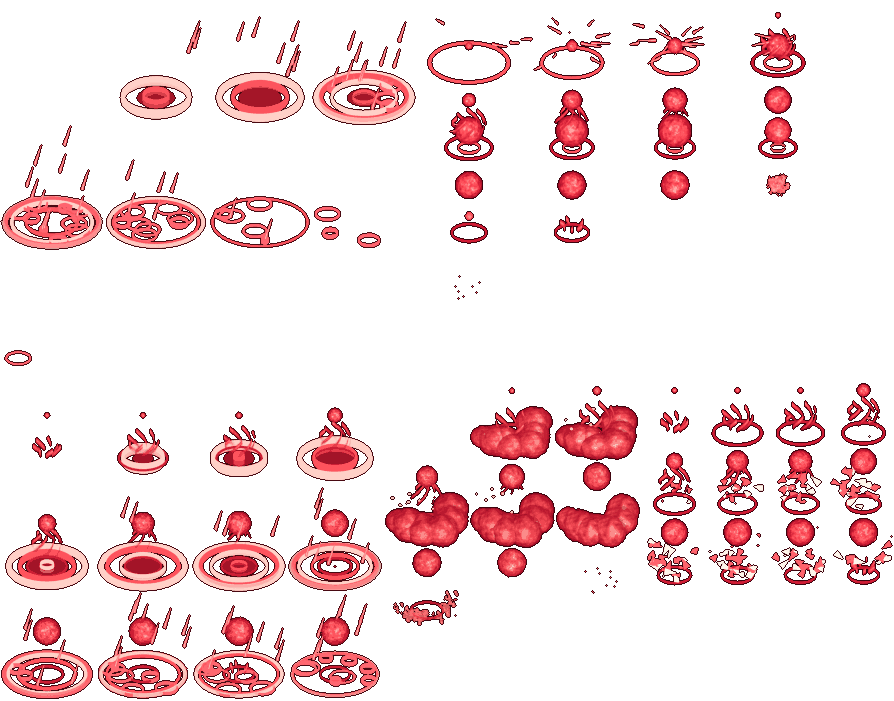
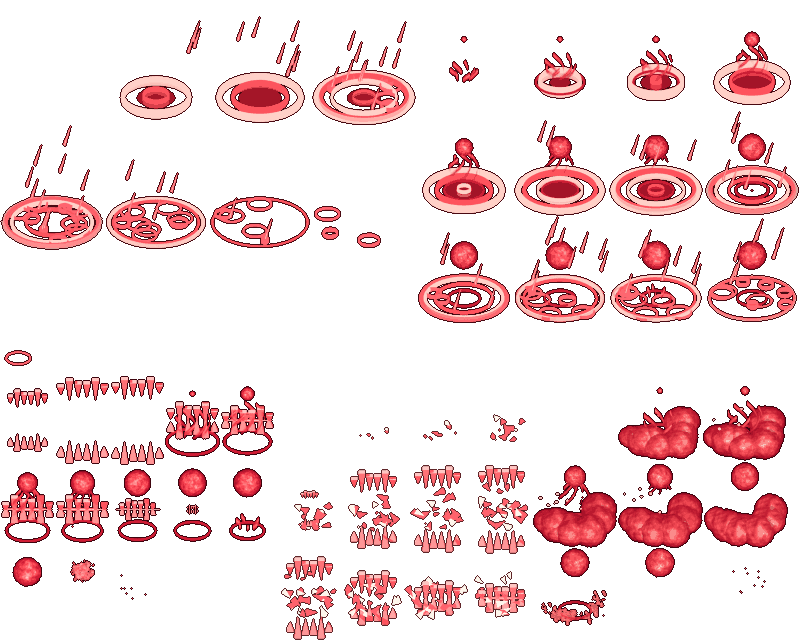
ULT-AUDIT, the look-alike pairs: harpoons for the Harpooner, fangs for the Vampire Lord, fire on each ally for the Samurai Commander
Claude-Session: https://claude.ai/code/session_01RRJtWnKv3aqtC5Z8HqXpVz

diff --git a/src/render/blenderFxData.ts b/src/render/blenderFxData.ts
@@ -7,7 +7,7 @@ import type { BfxClip } from './blenderFxRules';
 export const BFX_DENSITY = 45;
 export const BFX_GLOW_SHRINK = 4;
 /** The hard pixel atlases' sizes, then the soft glow atlases' (`px-<n>.webp`, `soft-<n>.webp`). */
-export const BFX_PX: readonly (readonly [number, number])[] = [[2041, 2045], [2030, 750], [1208, 1240], [1076, 1140], [938, 563], [945, 886], [217, 241], [946, 993], [1136, 1212], [1016, 691], [994, 778], [316, 280], [1016, 1019], [837, 717], [913, 1022], [923, 937], [1005, 700], [1364, 1324], [1176, 1280], [873, 563], [1008, 1200], [1156, 1128], [979, 716], [994, 856], [265, 187], [987, 641], [1023, 821], [919, 810], [874, 978], [277, 220], [754, 896], [991, 893], [983, 907], [919, 509], [817, 817], [918, 856], [980, 813], [802, 799], [834, 1009], [991, 950], [689, 569], [1065, 954], [881, 584], [900, 898], [286, 217], [1023, 809], [605, 505], [987, 993], [286, 196], [977, 957], [781, 906], [451, 430], [781, 941], [894, 701], [1010, 846], [902, 993], [1076, 1048], [980, 738], [917, 874], [451, 496], [1328, 1540], [974, 954], [1001, 758], [982, 895], [253, 220], [982, 936], [992, 776], [1184, 1040], [891, 926], [829, 809], [945, 680], [1020, 1011], [813, 223], [1018, 1022], [427, 136], [1024, 1018], [650, 226], [1016, 1015], [373, 145], [1019, 991], [443, 148], [1013, 1020], [358, 213], [1015, 1018], [357, 124], [1003, 1006], [960, 208], [1021, 1023], [424, 145], [1001, 1008], [650, 226], [91, 79]];
+export const BFX_PX: readonly (readonly [number, number])[] = [[2041, 2045], [2030, 750], [1208, 1240], [1076, 1140], [938, 563], [945, 886], [217, 241], [946, 993], [1136, 1212], [1016, 691], [994, 778], [316, 280], [1016, 1019], [837, 717], [913, 1022], [923, 937], [1005, 700], [1364, 1324], [1176, 1280], [873, 563], [1008, 1200], [1156, 1128], [979, 716], [994, 856], [265, 187], [987, 641], [1023, 821], [919, 810], [874, 978], [277, 220], [754, 896], [991, 893], [983, 907], [919, 509], [817, 817], [918, 856], [980, 813], [802, 799], [834, 1009], [991, 950], [689, 569], [1065, 954], [881, 584], [900, 898], [286, 217], [1023, 809], [605, 505], [987, 993], [286, 196], [977, 957], [781, 906], [451, 430], [781, 941], [802, 644], [1010, 846], [902, 993], [1076, 1048], [980, 738], [917, 874], [451, 496], [1328, 1540], [974, 954], [1001, 758], [982, 895], [253, 220], [982, 936], [992, 776], [1184, 1040], [891, 926], [829, 809], [903, 845], [1020, 1011], [813, 223], [1018, 1022], [427, 136], [1024, 1018], [650, 226], [1016, 1015], [373, 145], [1019, 991], [443, 148], [1013, 1020], [358, 213], [1015, 1018], [357, 124], [1003, 1006], [960, 208], [1021, 1023], [424, 145], [1001, 1008], [650, 226], [91, 79]];
 export const BFX_SOFT: readonly (readonly [number, number])[] = [[2048, 1291]];
 /** The pixel atlases every fight may need (the spells, the ground loops): loaded up front. The rest are loaded when a fight needs them. */
 export const BFX_CORE: readonly number[] = [0, 1];
@@ -318,12 +318,12 @@ export const BFX_CLIPS: Readonly<Record<string, BfxClip>> = {
   'ult-gunslinger-aftermath': {"a": 24, "x": 0, "y": 0, "w": 88, "h": 62, "n": 9, "cols": 3, "ax": 46.5, "ay": 58.1, "ms": 1800, "loop": false, "hold": 3, "layer": "over", "el": "fire", "cuts": [[0, 7], [1, 8]], "sc": ["smoke", "sparks"]},
   'ult-gunslinger-strike': {"a": 23, "x": 0, "y": 565, "w": 78, "h": 58, "n": 13, "cols": 3, "ax": 39.0, "ay": 36.8, "ms": 1300, "loop": false, "hold": 6, "layer": "over", "el": "fire", "cuts": [[0, 8], [3, 12]], "sc": ["sparks", "ring"], "at": "each"},
   'ult-gunslinger-windup': {"a": 23, "x": 235, "y": 565, "w": 78, "h": 64, "n": 12, "cols": 3, "ax": 36.5, "ay": 56.6, "ms": 2000, "loop": false, "hold": 4, "layer": "over", "el": "fire", "cuts": [[0, 11], [3, 11]], "sc": ["sparks", "smoke"]},
-  'ult-harpooner-aftermath': {"a": 70, "x": 301, "y": 373, "w": 89, "h": 77, "n": 9, "cols": 3, "ax": 45.0, "ay": 53.4, "ms": 1600, "loop": false, "hold": 4, "layer": "over", "el": "ice", "cuts": [[0, 7], [1, 8]], "sc": ["spikes", "chains"]},
-  'ult-harpooner-strike': {"a": 70, "x": 584, "y": 0, "w": 90, "h": 77, "n": 13, "cols": 4, "ax": 45.5, "ay": 54.0, "ms": 1300, "loop": false, "hold": 6, "layer": "over", "el": "ice", "cuts": [[0, 8], [3, 12]], "sc": ["chains", "spikes"], "at": "each"},
-  'ult-harpooner-windup': {"a": 70, "x": 0, "y": 0, "w": 95, "h": 93, "n": 12, "cols": 3, "ax": 47.5, "ay": 68.6, "ms": 1700, "loop": false, "hold": 10, "layer": "over", "el": "ice", "cuts": [[0, 11], [3, 11]], "sc": ["chains", "geyser"]},
+  'ult-harpooner-aftermath': {"a": 70, "x": 599, "y": 472, "w": 101, "h": 101, "n": 9, "cols": 3, "ax": 50.5, "ay": 75.6, "ms": 1600, "loop": false, "hold": 5, "layer": "over", "el": "ice", "cuts": [[0, 7], [1, 8]], "sc": ["spikes", "geyser"]},
+  'ult-harpooner-strike': {"a": 70, "x": 0, "y": 0, "w": 90, "h": 157, "n": 13, "cols": 5, "ax": 45.5, "ay": 134.6, "ms": 1300, "loop": false, "hold": 6, "layer": "over", "el": "ice", "cuts": [[0, 8], [3, 12]], "sc": ["strike", "spikes"], "at": "each"},
+  'ult-harpooner-windup': {"a": 70, "x": 451, "y": 0, "w": 97, "h": 94, "n": 12, "cols": 3, "ax": 48.5, "ay": 69.6, "ms": 1700, "loop": false, "hold": 11, "layer": "over", "el": "ice", "cuts": [[0, 11], [3, 11]], "sc": ["spikes", "geyser"]},
   'ult-hemomancer-aftermath': {"a": 53, "x": 0, "y": 0, "w": 104, "h": 125, "n": 9, "cols": 4, "ax": 52.0, "ay": 98.3, "ms": 1700, "loop": false, "hold": 3, "layer": "over", "el": "blood", "cuts": [[0, 7], [1, 8]], "sc": ["ring", "rain"]},
   'ult-hemomancer-strike': {"a": 52, "x": 0, "y": 0, "w": 195, "h": 235, "n": 13, "cols": 4, "ax": 90.5, "ay": 183.8, "ms": 1300, "loop": false, "hold": 5, "layer": "over", "el": "blood", "cuts": [[0, 8], [3, 12]], "sc": ["siphon", "rain"]},
-  'ult-hemomancer-windup': {"a": 53, "x": 0, "y": 376, "w": 96, "h": 108, "n": 12, "cols": 4, "ax": 47.0, "ay": 83.1, "ms": 1900, "loop": false, "hold": 6, "layer": "over", "el": "blood", "cuts": [[0, 11], [0, 11], [4, 11]], "sc": ["siphon", "ring", "rain"]},
+  'ult-hemomancer-windup': {"a": 53, "x": 417, "y": 0, "w": 96, "h": 108, "n": 12, "cols": 4, "ax": 47.0, "ay": 83.1, "ms": 1900, "loop": false, "hold": 6, "layer": "over", "el": "blood", "cuts": [[0, 11], [0, 11], [4, 11]], "sc": ["siphon", "ring", "rain"]},
   'ult-illusionist-aftermath': {"a": 38, "x": 0, "y": 768, "w": 95, "h": 80, "n": 9, "cols": 3, "ax": 47.5, "ay": 56.5, "ms": 2100, "loop": false, "hold": 3, "layer": "over", "el": "arcane", "cuts": [[0, 7], [1, 8]], "sc": ["sigil", "veil"]},
   'ult-illusionist-strike': {"a": 38, "x": 313, "y": 473, "w": 61, "h": 73, "n": 13, "cols": 4, "ax": 30.5, "ay": 62.3, "ms": 1300, "loop": false, "hold": 4, "layer": "over", "el": "arcane", "cuts": [[0, 8], [3, 12]], "sc": ["veil", "portal"], "at": "each"},
   'ult-illusionist-windup': {"a": 38, "x": 558, "y": 473, "w": 78, "h": 63, "n": 12, "cols": 3, "ax": 38.5, "ay": 52.6, "ms": 2200, "loop": false, "hold": 10, "layer": "over", "el": "arcane", "cuts": [[0, 11], [4, 11]], "sc": ["veil", "sparks"]},
@@ -409,14 +409,14 @@ export const BFX_CLIPS: Readonly<Record<string, BfxClip>> = {
   'ult-samurai-strike': {"a": 13, "x": 0, "y": 0, "w": 142, "h": 121, "n": 13, "cols": 4, "ax": 53.5, "ay": 102.2, "ms": 1300, "loop": false, "hold": 5, "layer": "over", "el": "holy", "cuts": [[0, 8], [3, 12]], "sc": ["arc", "sparks"], "at": "line", "g": {"a": 0, "x": 1763, "y": 0, "w": 65, "h": 49, "cols": 3, "ax": 32.38, "ay": 30.3}},
   'ult-samurai-windup': {"a": 12, "x": 733, "y": 0, "w": 94, "h": 75, "n": 12, "cols": 3, "ax": 47.0, "ay": 50.8, "ms": 1600, "loop": false, "hold": 8, "layer": "over", "el": "holy", "cuts": [[0, 11], [4, 11]], "sc": ["ring", "flare"], "g": {"a": 0, "x": 1161, "y": 1004, "w": 29, "h": 35, "cols": 4, "ax": 14.25, "ay": 26.2}},
   'ult-samuraiCommander-aftermath': {"a": 45, "x": 285, "y": 529, "w": 110, "h": 91, "n": 9, "cols": 3, "ax": 55.0, "ay": 63.3, "ms": 1700, "loop": false, "hold": 5, "layer": "over", "el": "fire", "cuts": [[0, 7], [1, 8]], "sc": ["ring", "flare"]},
-  'ult-samuraiCommander-strike': {"a": 46, "x": 0, "y": 0, "w": 151, "h": 126, "n": 13, "cols": 4, "ax": 75.5, "ay": 88.4, "ms": 1300, "loop": false, "hold": 7, "layer": "over", "el": "fire", "cuts": [[0, 8], [3, 12]], "sc": ["banner", "flare"], "at": "friends"},
+  'ult-samuraiCommander-strike': {"a": 46, "x": 0, "y": 0, "w": 151, "h": 126, "n": 13, "cols": 4, "ax": 75.5, "ay": 88.5, "ms": 1300, "loop": false, "hold": 4, "layer": "over", "el": "fire", "cuts": [[0, 8], [3, 12]], "sc": ["flare", "sparks"], "at": "friends"},
   'ult-samuraiCommander-windup': {"a": 45, "x": 469, "y": 0, "w": 108, "h": 86, "n": 12, "cols": 3, "ax": 54.0, "ay": 58.8, "ms": 1900, "loop": false, "hold": 10, "layer": "over", "el": "fire", "cuts": [[0, 11], [4, 11]], "sc": ["banner", "flare"]},
   'ult-satyr-aftermath': {"a": 45, "x": 794, "y": 0, "w": 76, "h": 80, "n": 9, "cols": 3, "ax": 36.0, "ay": 60.7, "ms": 1700, "loop": false, "hold": 5, "layer": "over", "el": "forest", "cuts": [[0, 7], [1, 8]], "sc": ["vines", "hearts"]},
   'ult-satyr-strike': {"a": 45, "x": 0, "y": 0, "w": 117, "h": 132, "n": 13, "cols": 4, "ax": 58.5, "ay": 103.3, "ms": 1300, "loop": false, "hold": 4, "layer": "over", "el": "forest", "cuts": [[0, 8], [3, 12]], "sc": ["notes", "spiral"], "at": "friends"},
   'ult-satyr-windup': {"a": 45, "x": 0, "y": 529, "w": 71, "h": 93, "n": 12, "cols": 4, "ax": 35.5, "ay": 74.5, "ms": 1900, "loop": false, "hold": 8, "layer": "over", "el": "forest", "cuts": [[0, 11], [4, 11]], "sc": ["notes", "hearts"]},
-  'ult-seaReaver-aftermath': {"a": 70, "x": 0, "y": 373, "w": 100, "h": 102, "n": 9, "cols": 3, "ax": 50.0, "ay": 76.3, "ms": 1500, "loop": false, "hold": 5, "layer": "over", "el": "water", "cuts": [[0, 7], [1, 8]], "sc": ["trail", "geyser"]},
+  'ult-seaReaver-aftermath': {"a": 70, "x": 298, "y": 472, "w": 100, "h": 102, "n": 9, "cols": 3, "ax": 50.0, "ay": 76.3, "ms": 1500, "loop": false, "hold": 5, "layer": "over", "el": "water", "cuts": [[0, 7], [1, 8]], "sc": ["trail", "geyser"]},
   'ult-seaReaver-strike': {"a": 69, "x": 0, "y": 0, "w": 207, "h": 202, "n": 13, "cols": 4, "ax": 103.5, "ay": 150.1, "ms": 1300, "loop": false, "hold": 4, "layer": "over", "el": "water", "cuts": [[0, 8], [3, 12], [1, 11]], "sc": ["geyser", "gust", "ring"]},
-  'ult-seaReaver-windup': {"a": 70, "x": 286, "y": 0, "w": 99, "h": 93, "n": 12, "cols": 3, "ax": 49.5, "ay": 68.0, "ms": 1600, "loop": false, "hold": 8, "layer": "over", "el": "water", "cuts": [[0, 11], [2, 11]], "sc": ["geyser", "gust"]},
+  'ult-seaReaver-windup': {"a": 70, "x": 0, "y": 472, "w": 99, "h": 93, "n": 12, "cols": 3, "ax": 49.5, "ay": 68.0, "ms": 1600, "loop": false, "hold": 8, "layer": "over", "el": "water", "cuts": [[0, 11], [2, 11]], "sc": ["geyser", "gust"]},
   'ult-seraph-aftermath': {"a": 68, "x": 545, "y": 561, "w": 115, "h": 76, "n": 9, "cols": 3, "ax": 57.5, "ay": 46.9, "ms": 1800, "loop": false, "hold": 5, "layer": "over", "el": "holy", "cuts": [[0, 7], [1, 8]], "sc": ["nova", "wings"], "g": {"a": 0, "x": 1058, "y": 1114, "w": 34, "h": 29, "cols": 3, "ax": 16.88, "ay": 18.72}},
   'ult-seraph-strike': {"a": 67, "x": 0, "y": 0, "w": 296, "h": 260, "n": 13, "cols": 4, "ax": 148.0, "ay": 186.4, "ms": 1300, "loop": false, "hold": 4, "layer": "over", "el": "holy", "cuts": [[0, 8], [3, 12], [1, 11]], "sc": ["pillar", "wings", "ring"], "g": {"a": 0, "x": 1441, "y": 0, "w": 80, "h": 82, "cols": 4, "ax": 40.0, "ay": 60.35}},
   'ult-seraph-windup': {"a": 68, "x": 0, "y": 561, "w": 92, "h": 91, "n": 12, "cols": 3, "ax": 46.0, "ay": 68.0, "ms": 2000, "loop": false, "hold": 11, "layer": "over", "el": "holy", "cuts": [[0, 11], [4, 11]], "sc": ["halo", "shaft"], "g": {"a": 0, "x": 1567, "y": 867, "w": 36, "h": 37, "cols": 4, "ax": 17.75, "ay": 26.24}},
@@ -435,9 +435,9 @@ export const BFX_CLIPS: Readonly<Record<string, BfxClip>> = {
   'ult-vael-aftermath': {"a": 4, "x": 0, "y": 313, "w": 96, "h": 83, "n": 9, "cols": 3, "ax": 48.0, "ay": 59.2, "ms": 1700, "loop": false, "hold": 5, "layer": "over", "el": "shadow", "cuts": [[0, 7], [1, 8]], "sc": ["sigil", "souls"]},
   'ult-vael-strike': {"a": 3, "x": 0, "y": 0, "w": 269, "h": 285, "n": 13, "cols": 4, "ax": 134.5, "ay": 220.8, "ms": 1300, "loop": false, "hold": 3, "layer": "over", "el": "holy", "cuts": [[0, 8], [3, 12], [1, 11]], "sc": ["arc", "shockwave", "eclipse"], "g": {"a": 0, "x": 808, "y": 0, "w": 83, "h": 86, "cols": 4, "ax": 41.12, "ay": 63.45}},
   'ult-vael-windup': {"a": 4, "x": 0, "y": 0, "w": 89, "h": 104, "n": 12, "cols": 4, "ax": 46.5, "ay": 84.0, "ms": 1900, "loop": false, "hold": 5, "layer": "over", "el": "shadow", "cuts": [[0, 11], [2, 11]], "sc": ["eclipse", "implode"]},
-  'ult-vampireLord-aftermath': {"a": 53, "x": 385, "y": 376, "w": 85, "h": 86, "n": 9, "cols": 3, "ax": 42.0, "ay": 63.2, "ms": 1700, "loop": false, "hold": 3, "layer": "over", "el": "blood", "cuts": [[0, 7], [1, 8]], "sc": ["cloud", "siphon"]},
-  'ult-vampireLord-strike': {"a": 53, "x": 417, "y": 0, "w": 103, "h": 85, "n": 13, "cols": 4, "ax": 52.0, "ay": 63.6, "ms": 1300, "loop": false, "hold": 6, "layer": "over", "el": "blood", "cuts": [[0, 8], [3, 12]], "sc": ["implode", "siphon"], "at": "each"},
-  'ult-vampireLord-windup': {"a": 53, "x": 641, "y": 376, "w": 63, "h": 71, "n": 12, "cols": 4, "ax": 33.5, "ay": 57.9, "ms": 1900, "loop": false, "hold": 8, "layer": "over", "el": "blood", "cuts": [[0, 11], [2, 11]], "sc": ["siphon", "swarm"]},
+  'ult-vampireLord-aftermath': {"a": 53, "x": 533, "y": 376, "w": 85, "h": 86, "n": 9, "cols": 3, "ax": 42.0, "ay": 63.2, "ms": 1700, "loop": false, "hold": 3, "layer": "over", "el": "blood", "cuts": [[0, 7], [1, 8]], "sc": ["cloud", "siphon"]},
+  'ult-vampireLord-strike': {"a": 53, "x": 0, "y": 376, "w": 55, "h": 89, "n": 13, "cols": 5, "ax": 27.5, "ay": 66.5, "ms": 1300, "loop": false, "hold": 6, "layer": "over", "el": "blood", "cuts": [[0, 8], [3, 12]], "sc": ["bite", "siphon"], "at": "each"},
+  'ult-vampireLord-windup': {"a": 53, "x": 276, "y": 376, "w": 64, "h": 89, "n": 12, "cols": 4, "ax": 33.5, "ay": 63.9, "ms": 1900, "loop": false, "hold": 7, "layer": "over", "el": "blood", "cuts": [[0, 11], [3, 11]], "sc": ["swarm", "bite"]},
   'ult-wanderer-aftermath': {"a": 43, "x": 587, "y": 521, "w": 104, "h": 77, "n": 9, "cols": 3, "ax": 52.0, "ay": 50.4, "ms": 1700, "loop": false, "hold": 3, "layer": "over", "el": "holy", "cuts": [[0, 7], [1, 8]], "sc": ["ring", "hearts"], "g": {"a": 0, "x": 1828, "y": 1114, "w": 31, "h": 27, "cols": 3, "ax": 15.5, "ay": 17.09}},
   'ult-wanderer-strike': {"a": 43, "x": 0, "y": 0, "w": 145, "h": 130, "n": 13, "cols": 4, "ax": 72.5, "ay": 93.4, "ms": 1300, "loop": false, "hold": 8, "layer": "over", "el": "holy", "cuts": [[0, 8], [3, 12], [1, 11]], "sc": ["hearts", "motes", "halo"], "at": "friends", "g": {"a": 0, "x": 140, "y": 700, "w": 42, "h": 41, "cols": 4, "ax": 20.88, "ay": 28.35}},
   'ult-wanderer-windup': {"a": 43, "x": 0, "y": 521, "w": 101, "h": 94, "n": 12, "cols": 3, "ax": 50.5, "ay": 68.6, "ms": 1900, "loop": false, "hold": 8, "layer": "over", "el": "holy", "cuts": [[0, 11], [3, 11]], "sc": ["geyser", "hearts"], "g": {"a": 0, "x": 233, "y": 1004, "w": 31, "h": 36, "cols": 4, "ax": 15.38, "ay": 26.16}},

diff --git a/tools/blender-fx/effects.py b/tools/blender-fx/effects.py
@@ -181,7 +181,7 @@ BIG = dict(
     palisade=(dict(length=3.2, h=1.7, n=8), 2.4, 2.2), beast=(dict(size=2.3), 1.9, 2.2), whirlpool=(dict(r=1.7, arms=5), 2.0, 0.8), sandstorm=(dict(r=2.3, h=2.3, bands=11, grit=44, wide=0.36), 2.8, 3.2),
     wings=(dict(r=1.4, h=2.1), 1.7, 2.9), banner=(dict(h=2.4, w=1.3), 1.7, 2.9), eyes=(dict(r=2.5, n=3, size=3.0), 3.1, 2.7),
     flock=(dict(r=1.4, h=2.6, n=6, size=2.3), 4.0, 5.2),
-    notes=(dict(r=1.3, h=2.3, n=8, size=1.6), 2.8, 6.0), eclipse=(dict(r=0.9, z=2.4), 2.2, 4.6), broadside=(dict(r=1.4, n=7, size=1.0), 3.6, 4.6), implode=(dict(r=1.9, n=16, z=0.8), 2.5, 2.3), slab=(dict(r=0.9, n=6, h=1.3, dark=True), 1.7, 1.9), shaft=(dict(r=0.6, h=3.2, slant=0.4), 2.6, 3.8),
+    notes=(dict(r=1.3, h=2.3, n=8, size=1.6), 2.8, 6.0), eclipse=(dict(r=0.9, z=2.4), 2.2, 4.6), broadside=(dict(r=1.4, n=7, size=1.0), 3.6, 4.6), bite=(dict(r=1.0, n=6, z=1.0), 1.8, 2.9), implode=(dict(r=1.9, n=16, z=0.8), 2.5, 2.3), slab=(dict(r=0.9, n=6, h=1.3, dark=True), 1.7, 1.9), shaft=(dict(r=0.6, h=3.2, slant=0.4), 2.6, 3.8),
 )
 
 # Each ultimate: its palette, its strike's two scenes, and its showcase's style (which sets its weight, as `ultStageRules.ts` does).
@@ -201,14 +201,14 @@ ULTS = dict(
     illusionist=('arcane', 'veil', 'portal', 'pack'), priestess=('holy', 'wings', 'pillar', 'bless'), werewolf=('blood', 'claws', 'shout', 'change'),
     demonSwordsman=('fire', 'chains', 'flare', 'change'), kitsune=('fire', 'spiral', 'smoke', 'burst'), karasu=('wind', 'rain', 'swarm', 'sky'),
     timeWitch=('holy', 'sigil', 'crystal', 'burst'), wanderer=('holy', 'hearts', 'motes', 'bless'), satyr=('forest', 'notes', 'spiral', 'bless'),
-    samuraiCommander=('fire', 'banner', 'flare', 'bless'), sage=('lightning', 'dome', 'sigil', 'bless'), cleric=('holy', 'souls', 'motes', 'bless'),
-    peasant=('earth', 'banner', 'shout', 'bless'), wolfBard=('wind', 'notes', 'shout', 'bless'), vampireLord=('blood', 'implode', 'siphon', 'burst'),
+    samuraiCommander=('fire', 'flare', 'sparks', 'bless'), sage=('lightning', 'dome', 'sigil', 'bless'), cleric=('holy', 'souls', 'motes', 'bless'),
+    peasant=('earth', 'banner', 'shout', 'bless'), wolfBard=('wind', 'notes', 'shout', 'bless'), vampireLord=('blood', 'bite', 'siphon', 'burst'),
     hemomancer=('blood', 'siphon', 'rain', 'burst'), nightstalker=('shadow', 'swarm', 'claws', 'blinks'), bloodGargoyle=('earth', 'shockwave', 'slab', 'burst'),
     dhampir=('holy', 'rain', 'cross', 'shots'), warDrummer=('lightning', 'shout', 'bolt', 'burst'), geomancer=('earth', 'slab', 'crack', 'bless'),
     bellWarden=('shadow', 'shout', 'ring', 'burst'), falconer=('wind', 'flock', 'claws', 'sky'), banneret=('fire', 'banner', 'ring', 'bless'),
     astralSphinx=('arcane', 'eye', 'sigil', 'burst'), mirageDancer=('wind', 'veil', 'cross', 'blinks'), plagueDoctor=('poison', 'cloud', 'smoke', 'burst'),
     bombardier=('fire', 'strike', 'flames', 'sky'), astrologer=('holy', 'implode', 'nova', 'sky'), inquisitor=('holy', 'strike', 'ring', 'shots'),
-    seraph=('holy', 'pillar', 'wings', 'sky'), corsairSurgeon=('forest', 'geyser', 'motes', 'bless'), harpooner=('ice', 'chains', 'spikes', 'hooks'),
+    seraph=('holy', 'pillar', 'wings', 'sky'), corsairSurgeon=('forest', 'geyser', 'motes', 'bless'), harpooner=('ice', 'strike', 'spikes', 'hooks'),
     seaReaver=('water', 'geyser', 'gust', 'line'),
 )
 # ULT-AUDIT (docs/notes/ult-audit.md): a strike must show what the ability does. There is no great blow under any of them now (the
@@ -259,13 +259,13 @@ WIND_OWN = dict(
     demonSwordsman=[('chains', 0, 1.3), ('flames', 0.3, 1.6)], kitsune=[('spiral', 0, 1.4), ('flames', 0.3, 1.4)], karasu=[('swarm', 0, 1.5), ('gust', 0.3, 1.4)],
     timeWitch=[('sigil', 0, 1.5), ('ring', 0.2, 1.2), ('motes', 0.3, 1.4)], wanderer=[('geyser', 0, 1.3), ('hearts', 0.3, 1.5)], satyr=[('notes', 0, 1.5), ('hearts', 0.4, 1.5)],
     samuraiCommander=[('banner', 0, 1.5), ('flare', 0.4, 1.6)], sage=[('spiral', 0, 1.4), ('dome', 0.4, 1.6)], cleric=[('ring', 0, 1.4), ('souls', 0.1, 1.5)],
-    peasant=[('banner', 0, 1.5), ('shout', 0.3, 1.4)], wolfBard=[('notes', 0, 1.5), ('shout', 0.4, 1.5)], vampireLord=[('siphon', 0, 1.5), ('swarm', 0.2, 1.3)],
+    peasant=[('banner', 0, 1.5), ('shout', 0.3, 1.4)], wolfBard=[('notes', 0, 1.5), ('shout', 0.4, 1.5)], vampireLord=[('swarm', 0, 1.4), ('bite', 0.3, 1.5)],
     hemomancer=[('siphon', 0, 1.4), ('ring', 0, 1.2), ('rain', 0.4, 1.5)], nightstalker=[('swarm', 0, 1.4), ('smoke', 0.2, 1.3)], bloodGargoyle=[('gust', 0, 1.2), ('shaft', 0.4, 1.7)],
     dhampir=[('halo', 0, 1.2), ('cross', 0.5, 1.6)], warDrummer=[('shout', 0, 1.5), ('sparks', 0.3, 1.5)], geomancer=[('slab', 0, 1.5), ('motes', 0.2, 1.3)],
     bellWarden=[('shout', 0, 1.4), ('crystal', 0.4, 1.6)], falconer=[('flock', 0, 1.6), ('gust', 0.2, 1.3)], banneret=[('banner', 0, 1.5), ('ring', 0.1, 1.3)],
     astralSphinx=[('eye', 0, 1.5), ('sigil', 0, 1.3)], mirageDancer=[('veil', 0, 1.4), ('gust', 0.2, 1.4)], plagueDoctor=[('cloud', 0, 1.5), ('siphon', 0.3, 1.4)],
     bombardier=[('flames', 0, 1.2), ('geyser', 0.3, 1.6)], astrologer=[('implode', 0, 1.4), ('motes', 0.2, 1.4)], inquisitor=[('halo', 0, 1.3), ('strike', 0.4, 1.7)],
-    seraph=[('halo', 0, 1.4), ('shaft', 0.4, 1.7)], corsairSurgeon=[('geyser', 0, 1.4), ('ring', 0.1, 1.2)], harpooner=[('chains', 0, 1.4), ('geyser', 0.3, 1.5)],
+    seraph=[('halo', 0, 1.4), ('shaft', 0.4, 1.7)], corsairSurgeon=[('geyser', 0, 1.4), ('ring', 0.1, 1.2)], harpooner=[('spikes', 0, 1.4), ('geyser', 0.3, 1.5)],
     seaReaver=[('geyser', 0, 1.5), ('gust', 0.2, 1.4)],
 )
 # A wind-up that holds colours outside its element's (grey fur, amber eyes) has more of them, so the palette step keeps them.
@@ -295,7 +295,7 @@ AFTER_OWN = dict(
     geomancer=['spikes', 'motes'], bellWarden=['ring', 'veil'], falconer=['trail', 'swarm'], banneret=['flames', 'veil'],
     astralSphinx=['sigil', 'eye'], mirageDancer=['sigil', 'gust'], plagueDoctor=['cloud', 'motes'], bombardier=['flames', 'cloud'],
     astrologer=['sigil', 'motes'], inquisitor=['flames', 'halo'], seraph=['nova', 'wings'], corsairSurgeon=['cloud', 'hearts'],
-    harpooner=['spikes', 'chains'], seaReaver=['trail', 'geyser'],
+    harpooner=['spikes', 'geyser'], seaReaver=['trail', 'geyser'],
 )
 # How large a strike is drawn when it plays on each fighter, or round the caster.
 PLACE_SIZE = dict(each=0.8, friends=1.1, tiles=0.85, line=0.7, self=1.25)

diff --git a/docs/notes/ult-audit.md b/docs/notes/ult-audit.md
@@ -575,6 +575,24 @@ the last two after the show is over), `TOUGH=1`.
   Cleric, no one whose fire lies over the picture). In it the strike is seen: pale slash marks, several together, on the foe he is
   striking, with a burst of sparks under them, and curved gusts after.
 
+### The look-alike pairs, 1: a harpoon, fangs, fire on each ally
+
+`docs/samples/blender-fx/audit-pairs-1-393.jpg` (0.499 above, now below), `TOUGH=1`.
+
+- **The Harpooner and the Buccaneer** were the same cage of chain on each foe hooked, pale blue against purple. The Harpooner's
+  Leviathan Line is harpoons now: a long barbed shaft comes down onto each foe he hauls in, a flare where it lands, ice standing
+  after; no chain anywhere in his three stages. The Buccaneer keeps his chains. In the photograph: tall pale harpoons standing
+  over the foes, then ice.
+- **The Samurai Commander and the Banneret** were both a banner in a ring of orange fire. The Commander raises his banner in the
+  wind-up only; his strike is the fire running to each ally, tongues of it leaping up on each with sparks. The Banneret's banner
+  stands in her strike, on herself. In the photograph: his banner and fire where he stands, then fire on each friend in a ring.
+- **The Vampire Lord and the Hemomancer** were both an orb of blood over red rings. The Vampire Lord's Banquet of Blood is fangs
+  now: two rows of teeth closing, in the wind-up over him and on the foe he drinks from, with the blood drawn up after. The
+  Hemomancer keeps her bowl of blood. In the photograph: pale fangs closing over him, then on the foe.
+- **The Sage's dome** I changed and then put back. A test from the third batch holds that his shield is a dome (the ability forms
+  a shield round each ally), and that was decided with the director; with Ilyra's dome gone there are two domes on allies left,
+  his (pale, banded, in lightning's colours) and Orrun's (wound with vines). I have left both and say so.
+
 ## The audit of all 70
 
 `docs/samples/blender-fx/audit-all-1.jpg` to `-7.jpg`: all 70 ultimates, ten heroes a sheet in the table's order, each fired by hand in
